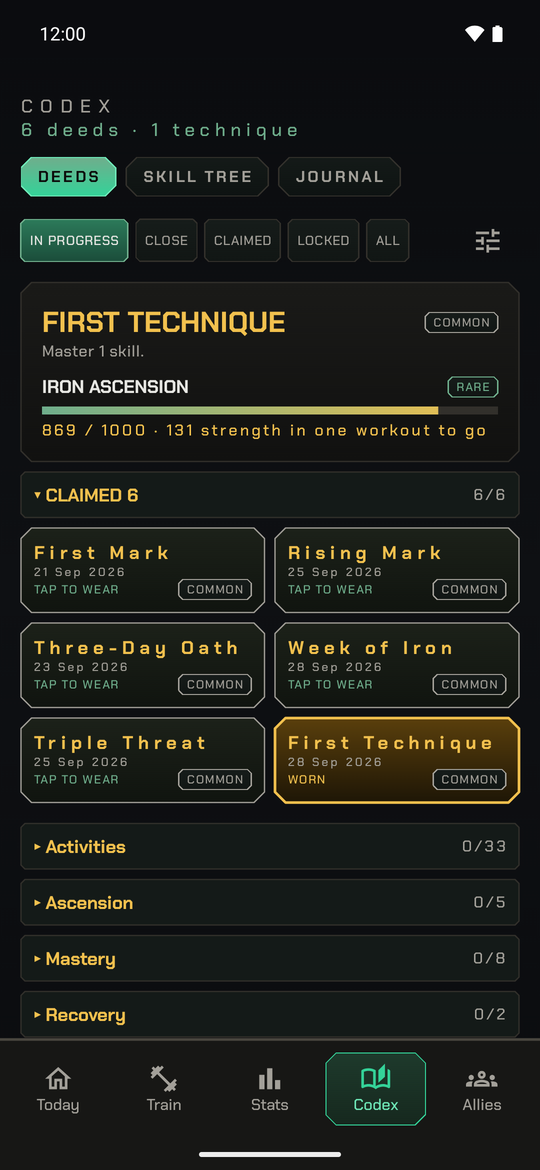
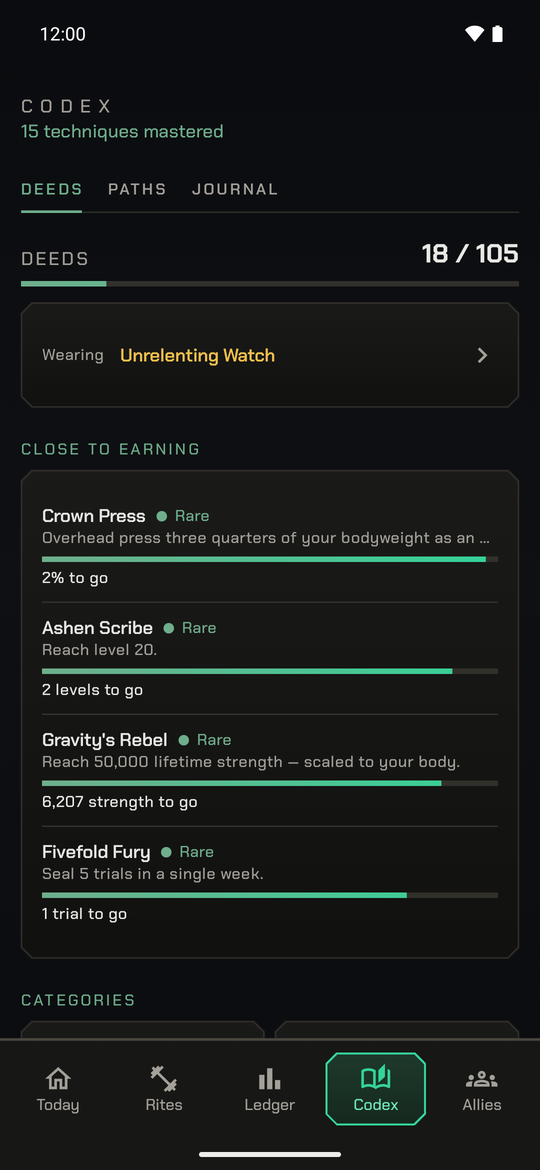
Reshoot the README and store screenshots for 1.5
- Retake every shot from the current build with the new body map and tab rows
- Add Weekly Coverage, muscle tile and info sheet shots to the README and store listing

diff --git a/README.md b/README.md
@@ -28,7 +28,11 @@ a 119-technique calisthenics tree, and a first-run flow that builds you a cycle.
 
 | Paths | Deeds | Share card |
 |:---:|:---:|:---:|
-| <img src="docs/images/skilltree.png" width="230" alt="The Paths technique tree with prerequisite lines" /> | <img src="docs/images/codex.png" width="230" alt="Deeds board grouped by category with progress bars" /> | <img src="docs/images/share.png" width="230" alt="Wordle-style plain text share card" /> |
+| <img src="docs/images/skilltree.png" width="230" alt="The Pull path drawn as game-style nodes with prerequisite lines" /> | <img src="docs/images/codex.png" width="230" alt="Deeds board grouped by category with progress bars" /> | <img src="docs/images/share.png" width="230" alt="Wordle-style plain text share card" /> |
+
+| Weekly Coverage | Muscle tiles | Info sheet |
+|:---:|:---:|:---:|
+| <img src="docs/images/coverage.png" width="230" alt="Weekly Coverage with the anatomical body map and the quads lit with a line of context" /> | <img src="docs/images/coverage_tiles.png" width="230" alt="Swipeable MUSCLES tiles, gaps first, with sets against target range" /> | <img src="docs/images/info.png" width="230" alt="Swipeable exercise info sheet with the muscles worked shown on the figure" /> |
 
 </div>
 
